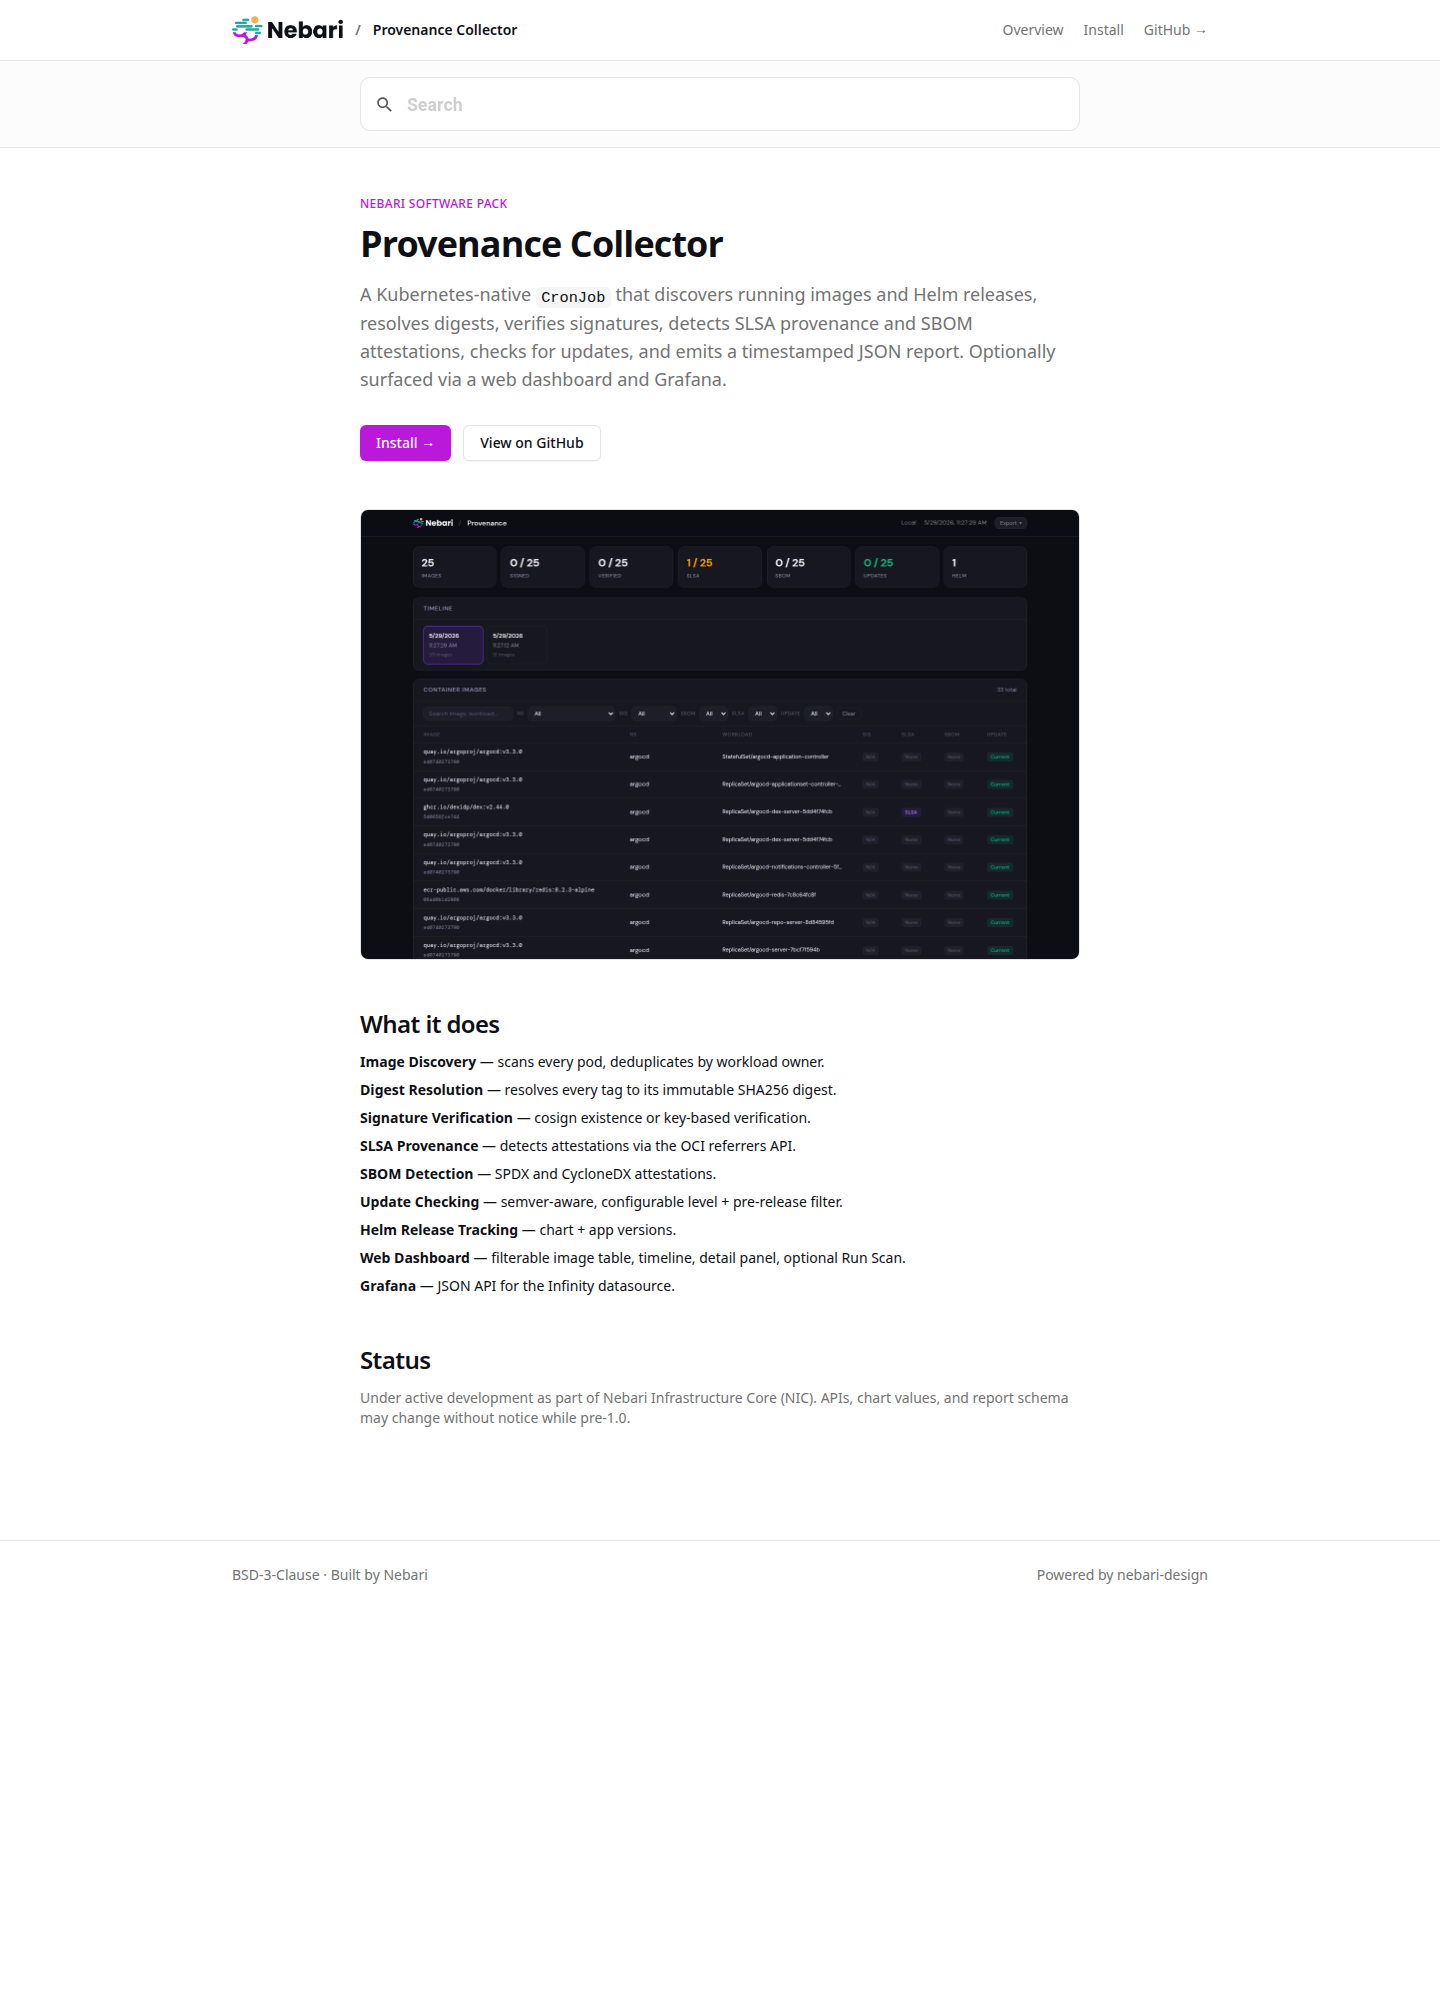
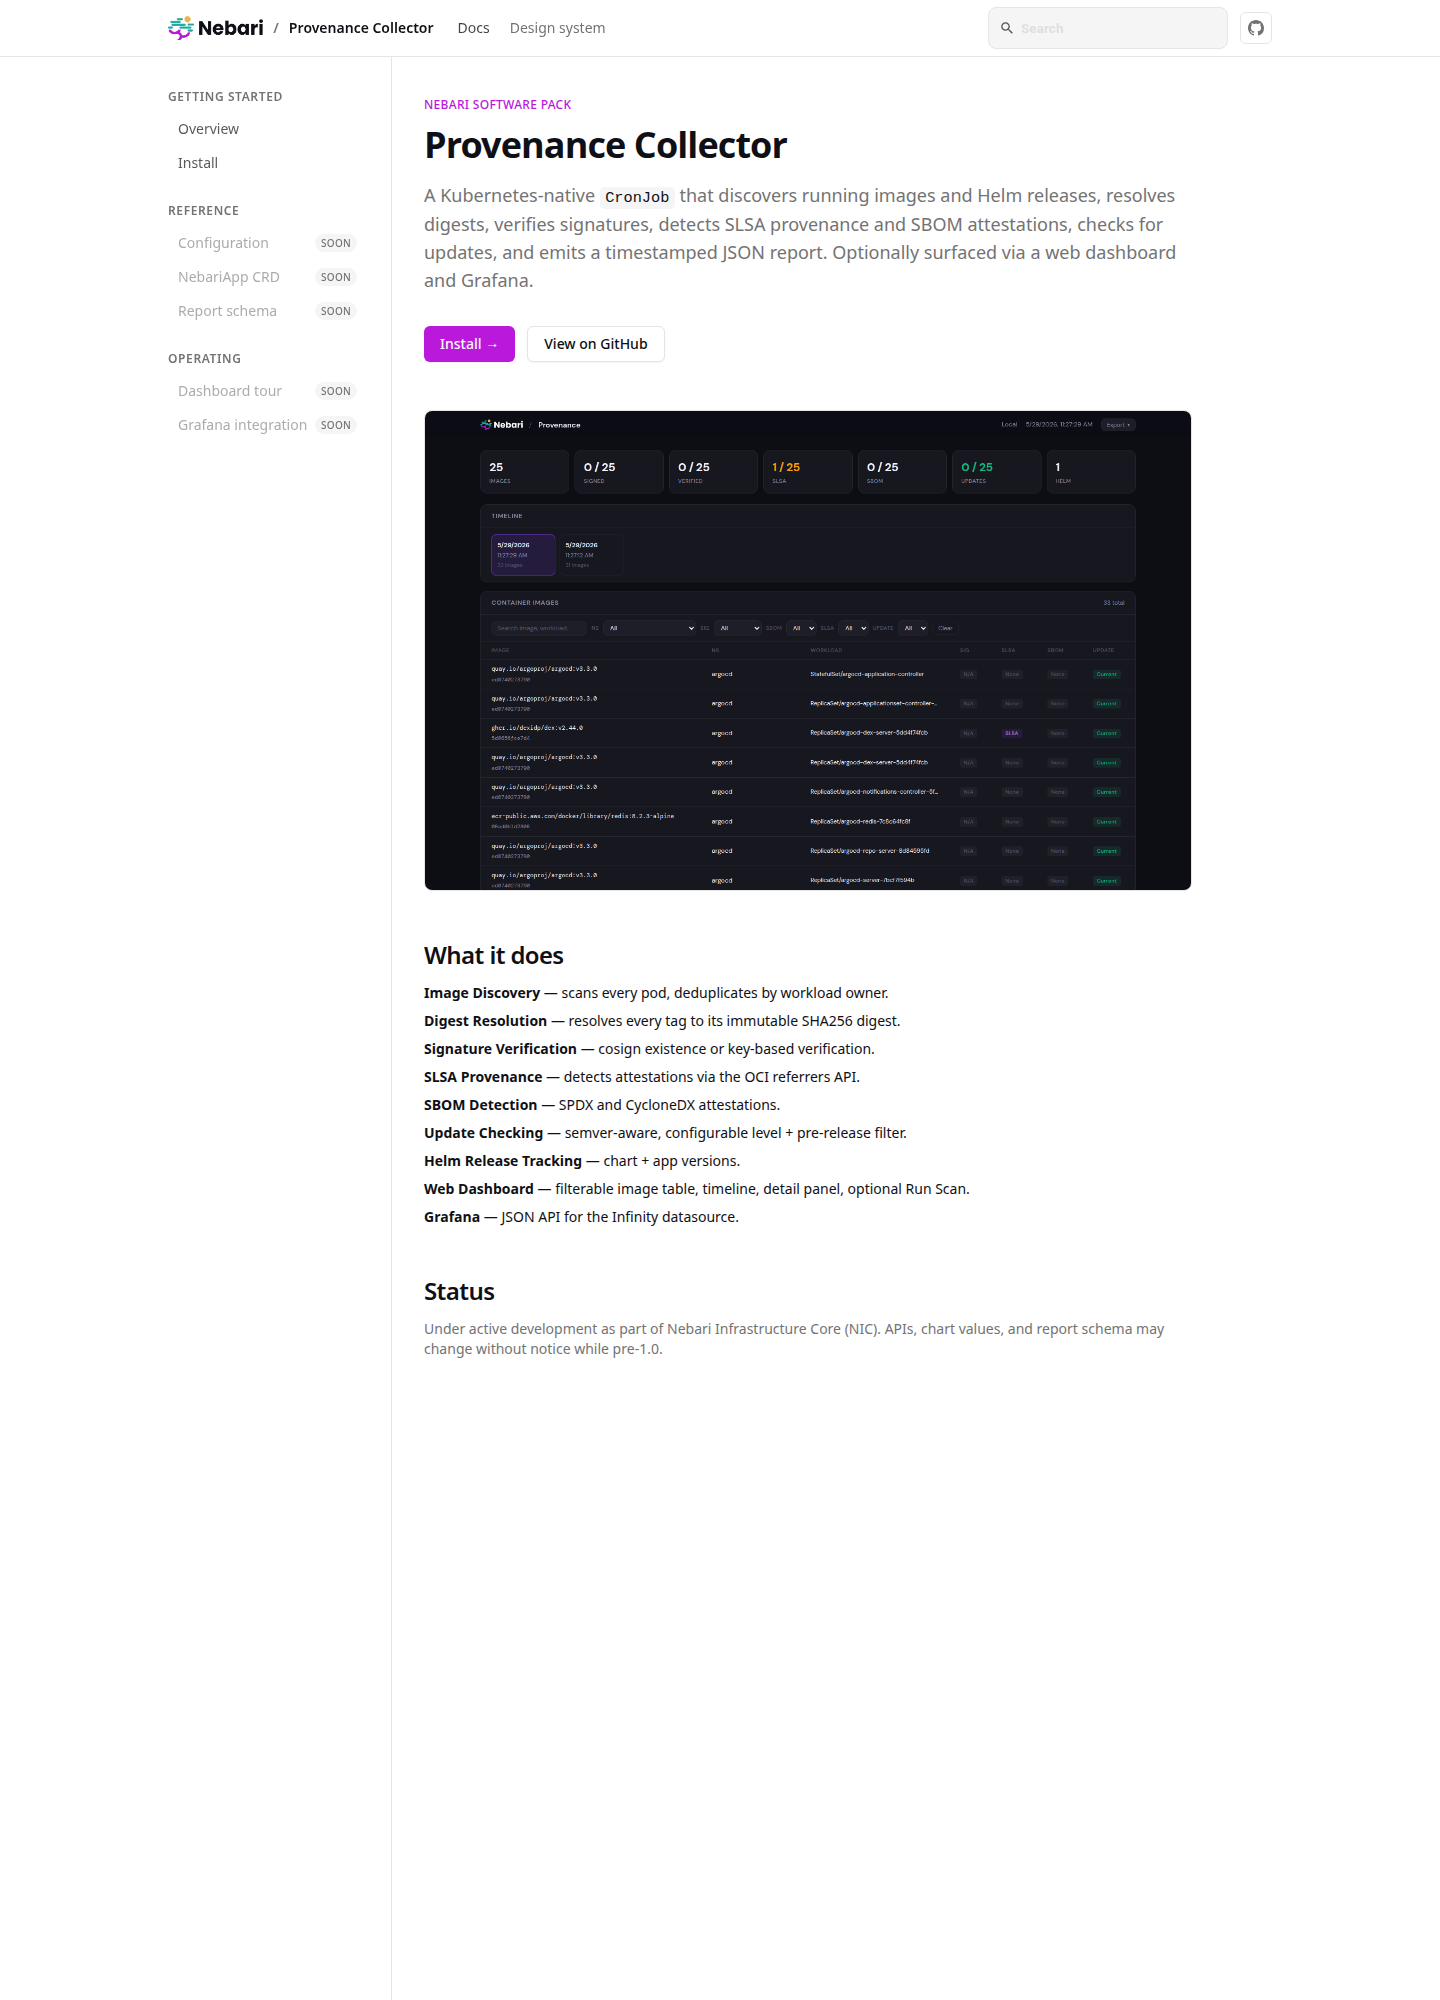
docs(spike): Docusaurus-style sidebar + compact header search
Reworks the layout from a single-column page to a sticky-header +
left-sidebar + main grid:

- Header collapses to a single 56px row: logo, top-level tabs (Docs /
  Design system), Pagefind search (240px-wide, header-integrated), and a
  GitHub icon button. Backdrop-blurred and sticky.
- Left sidebar (md+) groups pages by IA section — Getting Started,
  Reference, Operating — with active-state highlighting on the current
  page. Future pages render as muted stubs with a "soon" badge so the
  tree shape is visible without faking content.
- Pagefind UI shrunk to header scale (--pagefind-ui-scale: 0.65) with a
  custom floating results drawer that overlays instead of pushing the
  page down.

The intent is to show reviewers the IA + chrome a real pack adoption
would inherit, not just the per-page render.

diff --git a/docs-site/src/styles/globals.css b/docs-site/src/styles/globals.css
@@ -262,17 +262,50 @@ main a:not([class]):hover {
 
 /*
  * Pagefind UI theming. Pagefind ships its own widget; these CSS vars let
- * us recolor it to match the @nebari/theme tokens without forking the
- * stylesheet.
+ * us recolor it to match the @nebari/theme tokens. The input lives inline
+ * in the header, so we constrain its width and shrink the default scale
+ * down to header-bar size — the dropdown below still expands to a usable
+ * results panel.
  */
 .pagefind-search {
-  --pagefind-ui-scale: 0.85;
+  --pagefind-ui-scale: 0.65;
   --pagefind-ui-primary: var(--primary);
   --pagefind-ui-text: var(--foreground);
   --pagefind-ui-background: var(--background);
   --pagefind-ui-border: var(--border);
   --pagefind-ui-tag: var(--muted);
   --pagefind-ui-border-width: 1px;
-  --pagefind-ui-border-radius: var(--radius);
+  --pagefind-ui-border-radius: 0.5rem;
   --pagefind-ui-font: inherit;
+  width: 240px;
+  position: relative;
+}
+
+/* Pagefind's input has built-in vertical padding tuned to its scale; nudge
+ * the placeholder/text size down a touch more and drop the chunky search
+ * icon padding so it sits on the header row cleanly. */
+.pagefind-search .pagefind-ui__search-input {
+  padding: 0.45rem 0.75rem 0.45rem 2rem;
+  font-size: 0.85rem;
+  background-color: var(--muted);
+}
+.pagefind-search .pagefind-ui__search-input:focus {
+  background-color: var(--background);
+}
+
+/* Float the results dropdown below the input so it doesn't push header
+ * height around. */
+.pagefind-search .pagefind-ui__drawer:not(.pagefind-ui__hidden) {
+  position: absolute;
+  top: calc(100% + 0.5rem);
+  right: 0;
+  width: min(28rem, 90vw);
+  max-height: 70vh;
+  overflow-y: auto;
+  background: var(--background);
+  border: 1px solid var(--border);
+  border-radius: var(--radius);
+  padding: 0.75rem;
+  box-shadow: 0 10px 30px -10px rgb(0 0 0 / 0.15);
+  z-index: 30;
 }